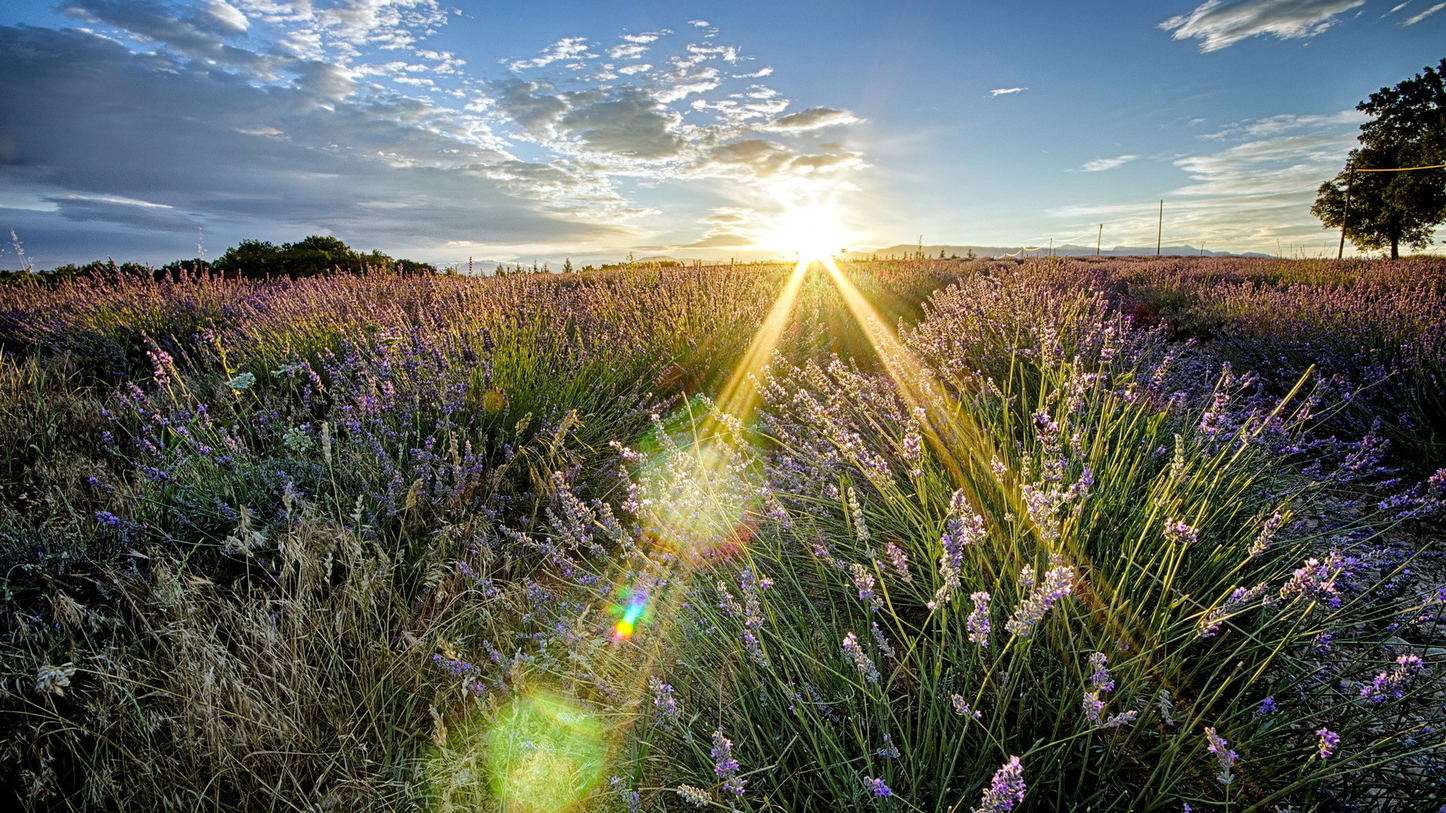
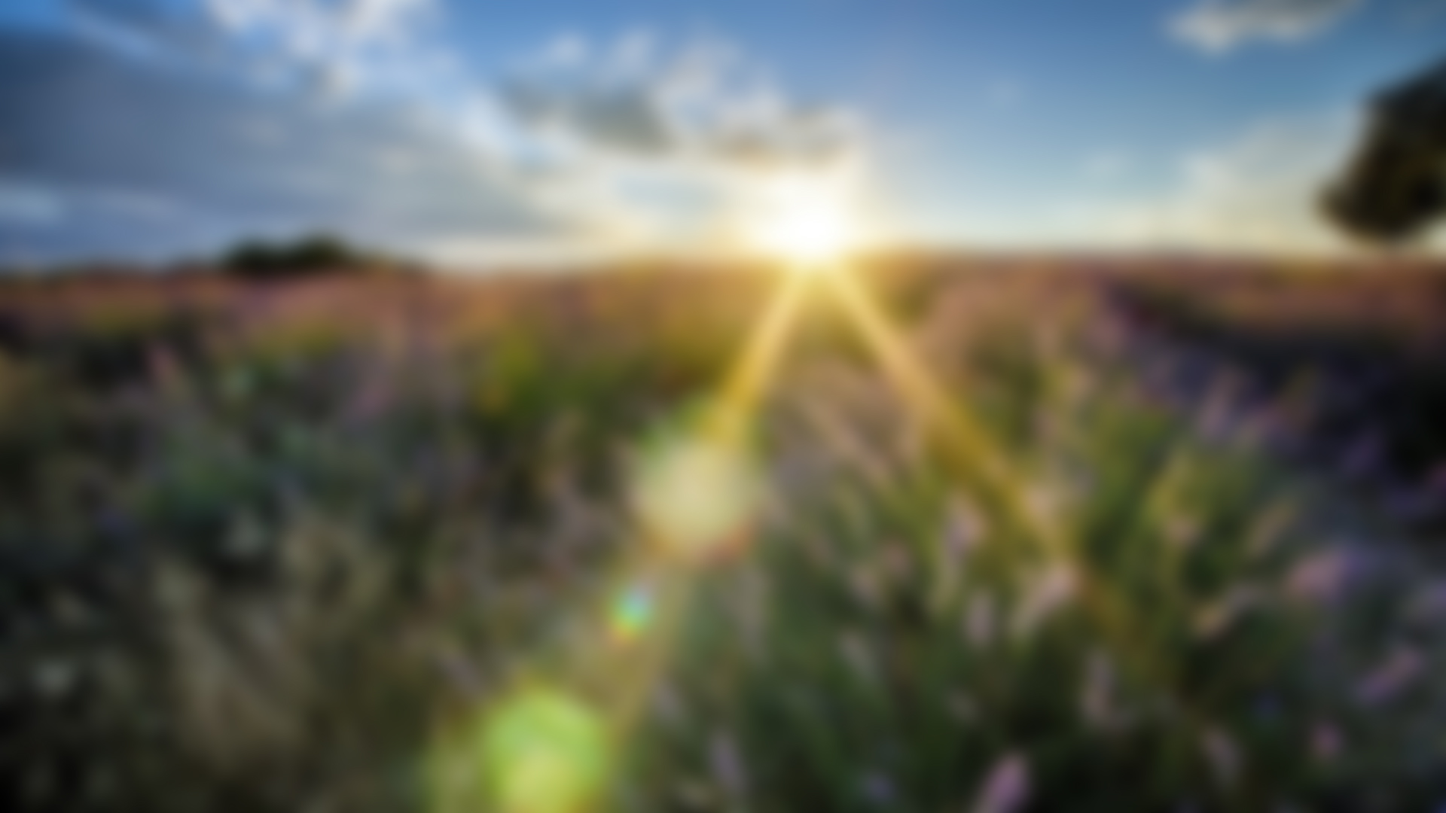
高斯模糊

diff --git a/01/index.html b/01/index.html
@@ -69,16 +69,16 @@
 	<!--Carousel-->
 	<div id="myCarousel" class="carousel slide carousel-fade">
 		<div class="messages">
-			<h1 class="slideInDown wow animated" data-wow-delay="0.5s" style="color:#f04c74">杨鹏赫
+			<h1 class="slideInDown wow animated" data-wow-delay="0.5s">杨鹏赫
 				<span class="heart pulsing fa fa-heart"></span> 李雨霏 </h1>
 			<script type="text/javascript">
 				/* <![CDATA[ */
 				setInterval(function () {
 					var timespan = countdown(new Date("04/13/2024"), new Date());
 					var div = document.getElementById('time');
-					div.innerHTML = "<div style=\"color:#f04c74\"><span>Years</span>" + timespan.years + "</div>" + "<div><span>Months</span>" + timespan.months +
-						"</div>" + "<div style=\"color:#f04c74\"><span>Days</span>" + timespan.days + "</div>" + "<div><span>Hours</span>" + timespan.hours +
-						"</div>" + "<div style=\"color:#f04c74\"><span>Minutes</span>" + timespan.minutes + "</div>" + "<div><span>Seconds</span>" + timespan.seconds +
+					div.innerHTML = "<div><span>Years</span>" + timespan.years + "</div>" + "<div><span>Months</span>" + timespan.months +
+						"</div>" + "<div><span>Days</span>" + timespan.days + "</div>" + "<div><span>Hours</span>" + timespan.hours +
+						"</div>" + "<div><span>Minutes</span>" + timespan.minutes + "</div>" + "<div><span>Seconds</span>" + timespan.seconds +
 						"</div>"
 				}, 1000);
 				/* ]]> */
